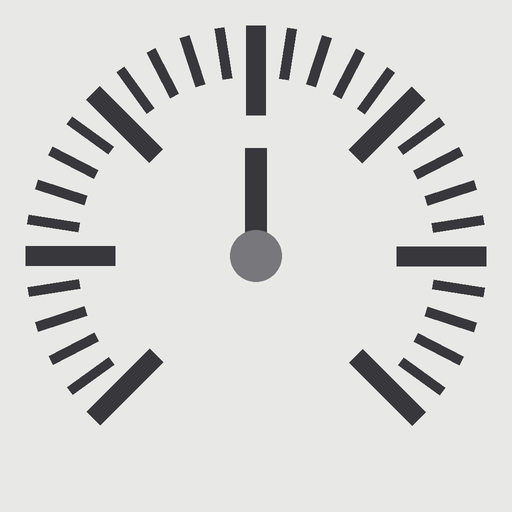
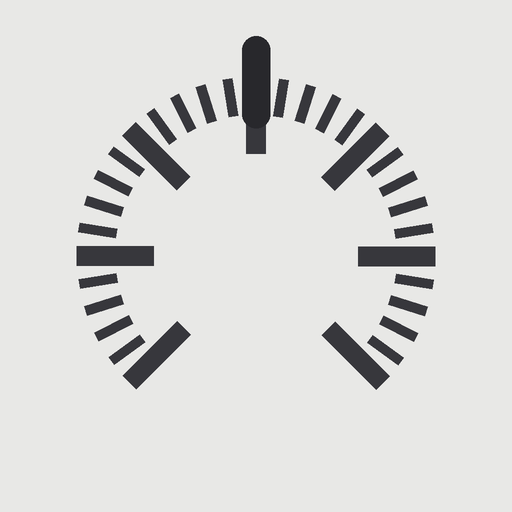
Схема POLIS: панель по замеру фронтального чертежа паспорта (плита 157x70 с радиусом 13, ручка и манометр одинаковые Ø43, узкие клавиши, лампы, надписи), надписи на самой плите без рамки; кадры polis и polis_r

Changed region(s): [[0.0312, 0.0312, 0.9688, 0.8438]]

diff --git a/tools/render_boiler_node.py b/tools/render_boiler_node.py
@@ -497,6 +497,31 @@ def union1(c):
     return c + Vector((0, 0, -0.058))
 
 
+def photo_poly(name, path, pts, w, h, loc, mtx):
+    """Плоская наклейка по контуру pts (в мм-долях, начало — левый низ, размер w x h): текстура ложится на всю фигуру,
+    а контур (скругления) — её собственный, без прямоугольной рамки по краю."""
+    import bmesh
+    bm = bmesh.new()
+    uvl = bm.loops.layers.uv.new('UVMap')
+    c0 = bm.verts.new((0, 0, 0))
+    vs = [bm.verts.new((u - w / 2, v - h / 2, 0)) for u, v in pts]
+    for i in range(len(vs)):
+        f = bm.faces.new((c0, vs[i], vs[(i + 1) % len(vs)]))
+        for lp in f.loops:
+            if lp.vert is c0:
+                lp[uvl].uv = (0.5, 0.5)
+            else:
+                k = vs.index(lp.vert)
+                lp[uvl].uv = (pts[k][0] / w, pts[k][1] / h)
+    me = bpy.data.meshes.new(name)
+    bm.to_mesh(me)
+    bm.free()
+    me.materials.append(photo_mat(path, rough=0.55, coat=0.05))
+    ob = bpy.data.objects.new(name, me)
+    ob.matrix_world = Matrix.Translation(Vector(loc)) @ mtx
+    return link(ob)
+
+
 def boiler_polis(zb):
     """Электрокотёл POLIS 247 x 750 x 251: белый корпус с фасадом по фото, снизу два патрубка G1" НР (в 61 от краёв)."""
     W_, H_, D_ = 0.247, 0.750, 0.251
@@ -512,23 +537,24 @@ def boiler_polis(zb):
     # панель управления (паспорт, рис. 1 и 10; фото каталога): плита с надписями — наклейка из tools/make_boiler_faces.py,
     # ручка термостата, три клавиши, манометр — объёмные детали с нарисованными шкалами
     yp = yf - 0.0008
-    zt = zb + 0.1187                                    # верх плиты (фронтальный чертёж паспорта, рис. 10: плита 157 x 74, низ в 45 от низа котла)
-    X0 = 0.044                                          # левый край плиты
-    plate = rounded([(0.0, 0.0), (0.157, 0.0), (0.157, 0.074), (0.0, 0.074)], 0.009, seg=6)
-    prism('плита панели', [(X0 + u, v) for u, v in plate], 0.0016, mat('bpanel', rough=0.4), Matrix.Translation(Vector((0, yp - 0.0008, zt - 0.074))) @ TO_XZ, bevel=0.0004)
-    # наклейка с надписями — внутри скруглённой плиты (поля по 6 мм), чтобы углы не выступали
-    photo_quad('панель управления', os.path.join(TEXD, 'SEB-5101_panel.png'), (48, 48, 1208, 544), (X0 + 0.0785, yp - 0.0017, zt - 0.037), TO_XZ, 0.145, 0.062, (1256, 592))
+    # Размеры — по фронтальному чертежу паспорта (рис. 10, замер по векторам): плита 156,5 x 70, скругление 13, левый край в
+    # 45,5 от края корпуса, низ в 43,8 от низа котла; ручка и манометр — одинаковые, Ø43; клавиши — рамки 14,4 x 31
+    X0, zt = 0.0455, zb + 0.1137                        # левый край плиты, её верх
+    plate = rounded([(0.0, 0.0), (0.157, 0.0), (0.157, 0.070), (0.0, 0.070)], 0.013, seg=8)
+    photo_poly('плита панели с надписями', os.path.join(TEXD, 'SEB-5101_panel.png'), plate, 0.157, 0.070,
+               (X0 + 0.0785, yp - 0.0010, zt - 0.035), TO_XZ)
     yq = yp - 0.0020
+    zc = zt - 0.0417                                    # ось ручки, клавиш и манометра
     knob = mat('grey', rough=0.35)
-    zkn, zgg, zsw = zt - 0.046, zt - 0.0435, zt - 0.0414
-    lathe('ручка термостата', [(0.0, 0), (0.0145, 0), (0.0145, 0.013), (0.0132, 0.0145), (0.0, 0.0145)], knob, (X0 + 0.017, yq, zkn), '-Y', segs=96, ribs=(32, 0.04, 0.0, 0.012))
-    photo_disc('шкала ручки', os.path.join(TEXD, 'SEB-5101_knob.png'), (256, 256, 256, 256), (X0 + 0.017, yq - 0.0147, zkn), '-Y', 0.0120, size=(512, 512))
-    for k, x in enumerate((0.0614, 0.0793, 0.0982)):
-        box('основание клавиши L%d' % (k + 1), (0.0165, 0.003, 0.030), mat('bpanel', rough=0.4), (X0 + x, yq - 0.0015, zsw))
-        ob = box('клавиша L%d' % (k + 1), (0.0125, 0.007, 0.020), mat('grey', rough=0.45), (X0 + x, yq - 0.0060, zsw + 0.002))
-        ob.rotation_euler = (math.radians(14), 0, 0)
-    lathe('оправа манометра', [(0.0, 0), (0.0178, 0), (0.0178, 0.009), (0.0162, 0.0105), (0.0, 0.0105)], M_CHROME(), (X0 + 0.129, yq, zgg), '-Y', segs=96)
-    photo_disc('шкала манометра', os.path.join(TEXD, 'SEB-5101_gauge.png'), (256, 256, 256, 256), (X0 + 0.129, yq - 0.0109, zgg), '-Y', 0.0153, size=(512, 512))
+    lathe('ручка термостата', [(0.0, 0), (0.0215, 0), (0.0215, 0.012), (0.0200, 0.0135), (0.0, 0.0135)], knob, (X0 + 0.0259, yq, zc), '-Y', segs=120, ribs=(40, 0.03, 0.0, 0.011))
+    photo_disc('шкала ручки', os.path.join(TEXD, 'SEB-5101_knob.png'), (256, 256, 256, 256), (X0 + 0.0259, yq - 0.0137, zc), '-Y', 0.0182, size=(512, 512))
+    lathe('оправа манометра', [(0.0, 0), (0.0215, 0), (0.0215, 0.010), (0.0198, 0.0115), (0.0, 0.0115)], M_CHROME(), (X0 + 0.1301, yq, zc), '-Y', segs=120)
+    photo_disc('шкала манометра', os.path.join(TEXD, 'SEB-5101_gauge.png'), (256, 256, 256, 256), (X0 + 0.1301, yq - 0.0118, zc), '-Y', 0.0182, size=(512, 512))
+    for k, x in enumerate((0.0595, 0.0785, 0.0968)):
+        # рамка клавиши 14,4 x 31 (тонкий выступ) и узкая качалка 8,5 x 19 — как на чертеже, без толщины
+        fr = box('рамка клавиши L%d' % (k + 1), (0.0144, 0.0016, 0.031), mat('bpanel', rough=0.3), (X0 + x, yq - 0.0008, zc))
+        ob = box('клавиша L%d' % (k + 1), (0.0085, 0.0045, 0.019), mat('grey', rough=0.4), (X0 + x, yq - 0.0034, zc + 0.001))
+        ob.rotation_euler = (math.radians(9), 0, 0)
     # вводы кабелей снизу (рис. 1, поз. 29-31): три чёрных гермоввода слева, шаг 32
     for k in range(3):
         lathe('гермоввод %d' % (k + 1), [(0.0, 0), (0.0100, 0), (0.0100, 0.010), (0.0075, 0.014), (0.0, 0.014)], mat('black', rough=0.6),

diff --git a/tools/make_boiler_faces.py b/tools/make_boiler_faces.py
@@ -54,31 +54,29 @@ def _font(px, bold=False):
 
 
 def polis_panel():
-    """Плита 157 x 74 мм по фронтальному чертежу паспорта (рис. 10, вид спереди): слева ручка термостата, над ней
-    указатель, три клавиши L1-L3 (над первой и третьей — кольцевые лампы «СЕТЬ» и «АВАРИЯ»), справа манометр."""
+    """Плита 156,5 x 70 мм по фронтальному чертежу паспорта (рис. 10, вид спереди, замер по векторам чертежа): скругление 13,
+    над ручкой термостата контурный указатель, над клавишами L1/L3 кольцевые лампы «СЕТЬ» и «АВАРИЯ», под клавишами
+    L1-L3. Ручка, клавиши и манометр — объёмные детали (render_boiler_node.py), здесь только плита и надписи."""
     k = 8                                               # пикселей на мм
-    W, H = 157 * k, 74 * k
+    W, H = 157 * k, 70 * k
     S = 2                                               # сглаживание
-    im = Image.new('RGB', (W * S, H * S), (238, 236, 234))
+    im = Image.new('RGB', (W * S, H * S), (16, 16, 18))
     d = ImageDraw.Draw(im)
-    d.rounded_rectangle((0, 0, W * S - 1, H * S - 1), radius=9 * k * S, fill=(16, 16, 18))
-    d.rounded_rectangle((1.6 * k * S, 1.6 * k * S, W * S - 1.6 * k * S, H * S - 1.6 * k * S), radius=7.5 * k * S, outline=(34, 34, 38), width=2 * S)
     P = lambda x, y: (x * k * S, y * k * S)
-    white, grey = (226, 226, 224), (150, 150, 152)
-    # указатель над ручкой (на чертеже — контурный треугольник, чуть правее оси ручки)
-    d.polygon([P(26.6, 19.5), P(24.2, 13.5), P(29.0, 13.5)], outline=white, width=2 * S)
-    # кольцевые лампы и подписи над клавишами
-    for x in (64, 95.6):
-        d.ellipse((P(x - 3.4, 12.8 - 3.4), P(x + 3.4, 12.8 + 3.4)), outline=(110, 110, 116), width=2 * S, fill=(26, 26, 30))
-    f = _font(int(2.9 * k * S), True)
-    for txt, x in (('СЕТЬ', 64), ('АВАРИЯ', 95.6)):
+    white, grey = (232, 232, 230), (214, 214, 212)
+    # указатель над ручкой — контурный треугольник вершиной вниз
+    d.polygon([P(25.9 - 3.6, 12.5), P(25.9 + 3.6, 12.5), P(25.9, 19.5)], outline=white, width=2 * S)
+    # кольцевые лампы над клавишами L1 и L3
+    for x in (63, 93):
+        d.ellipse((P(x - 4.9, 11.8 - 4.9), P(x + 4.9, 11.8 + 4.9)), outline=white, width=int(1.3 * k * S), fill=(20, 20, 22))
+    f = _font(int(3.3 * k * S), True)
+    for txt, x in (('СЕТЬ', 62.5), ('АВАРИЯ', 92.5)):
         w = d.textlength(txt, font=f)
-        d.text((x * k * S - w / 2, 21 * k * S), txt, font=f, fill=grey)
-    # обозначения фаз под клавишами
-    f2 = _font(int(3.4 * k * S), True)
-    for n, x in zip(('L1', 'L2', 'L3'), (61.4, 79.3, 98.2)):
+        d.text((x * k * S - w / 2, 20.5 * k * S), txt, font=f, fill=grey)
+    f2 = _font(int(3.6 * k * S), True)
+    for n, x in zip(('L1', 'L2', 'L3'), (59.5, 78.5, 96.8)):
         w = d.textlength(n, font=f2)
-        d.text((x * k * S - w / 2, 59 * k * S), n, font=f2, fill=grey)
+        d.text((x * k * S - w / 2, 58 * k * S), n, font=f2, fill=grey)
     im.resize((W, H), Image.LANCZOS).save(os.path.join(TEX, 'SEB-5101_panel.png'))
 
 
@@ -91,10 +89,10 @@ def polis_knob():
     for i in range(0, 31):
         a = _m.radians(-135 + 9 * i)
         big = i % 5 == 0
-        r0, r1 = (0.55 if big else 0.70) * c, 0.90 * c
+        r0, r1 = (0.40 if big else 0.55) * c, 0.70 * c
         d.line([(c + r0 * _m.sin(a), c - r0 * _m.cos(a)), (c + r1 * _m.sin(a), c - r1 * _m.cos(a))], fill=(55, 55, 60), width=(20 if big else 10) * S)
-    d.line([(c, c), (c, c - 0.42 * c)], fill=(55, 55, 60), width=22 * S)
-    d.ellipse((c - 0.10 * c, c - 0.10 * c, c + 0.10 * c, c + 0.10 * c), fill=(120, 120, 124))
+    # указатель — короткая скруглённая метка у верхнего края (на чертеже паспорта — вертикальный паз под указателем-треугольником)
+    d.rounded_rectangle((c - 0.055 * c, c - 0.86 * c, c + 0.055 * c, c - 0.50 * c), radius=0.055 * c, fill=(40, 40, 44))
     im.resize((N, N), Image.LANCZOS).save(os.path.join(TEX, 'SEB-5101_knob.png'))
 
 
